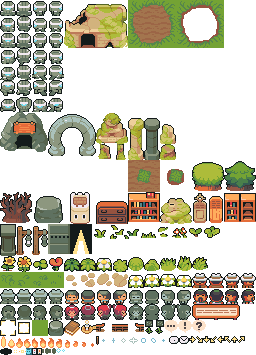
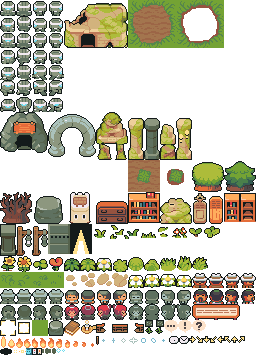
fix(play): outline the DSF island props, mark the footprint stone, report a failed atlas load
Claude-Session: https://claude.ai/code/session_01CCPYUMGwxb8dZjWuAeCoD5

diff --git a/app/play/dsf/world.ts b/app/play/dsf/world.ts
@@ -59,6 +59,7 @@ export type WorldEvents = {
   onToast(text: string): void; // only TOASTS.sea, at most once per 6 s
   onInteract?(near: NonNullable<Near>): void; // a tap on an object arrived next to it
   onReady?(): void; // atlas decoded and graded
+  onLoadError?(): void; // the atlas failed twice; the canvas says so too
   onScale?(cssPxPerArtPx: number): void; // k / devicePixelRatio, on every resize
 };
 
@@ -806,6 +807,24 @@ export function createWorld(canvas: HTMLCanvasElement, synth: Synth, events: Wor
     ctx.drawImage(tideCanvas, x, y);
   }
 
+  /** The island could not be loaded: say so plainly over the sea. */
+  function drawBroken(w: number, h: number) {
+    const lines = ["Could not load the island.", "Check your connection and reload."];
+    const size = Math.max(6, Math.min(10, Math.floor(w / 26)));
+    ctx.font = `bold ${size}px system-ui, sans-serif`;
+    ctx.textAlign = "center";
+    ctx.textBaseline = "middle";
+    const lineH = Math.round(size * 1.5);
+    const boxW = Math.min(w - 8, Math.ceil(Math.max(...lines.map((line) => ctx.measureText(line).width))) + size * 2);
+    const boxH = lineH * lines.length + size;
+    const bx = Math.round((w - boxW) / 2);
+    const by = Math.round((h - boxH) / 2);
+    ctx.fillStyle = "rgba(10, 16, 20, 0.85)";
+    ctx.fillRect(bx, by, boxW, boxH);
+    ctx.fillStyle = GOLD;
+    lines.forEach((line, index) => ctx.fillText(line, w / 2, by + size / 2 + lineH * (index + 0.5), w - 12));
+  }
+
   function draw() {
     if (disposed) return;
     placeCamera();
@@ -839,7 +858,7 @@ export function createWorld(canvas: HTMLCanvasElement, synth: Synth, events: Wor
       }
       drawTide();
       drawGlow();
-    }
+    } else if (broken) drawBroken(w, h);
     if (fadeIn >= 0) {
       // the opening: out of the dark in four flat steps
       ctx.globalAlpha = 1 - Math.floor(fadeIn / 225) / 4;
@@ -1182,6 +1201,8 @@ export function createWorld(canvas: HTMLCanvasElement, synth: Synth, events: Wor
     () => {
       // without the atlas there is still a sea, and the story must not wait for pictures that will not come
       broken = true;
+      events.onLoadError?.();
+      draw();
     },
   );
 

diff --git a/app/play/dsf/engine/assets.ts b/app/play/dsf/engine/assets.ts
@@ -9,29 +9,41 @@ export const ATLAS_URL = "/play/dsf/world/atlas.png";
 
 export type Sheets = Record<Grade, HTMLCanvasElement>;
 
+/** Loads the atlas, trying a second time after a short wait before giving up. */
 export function loadSheets(onReady: (sheets: Sheets) => void, onError: () => void): () => void {
   let cancelled = false;
-  const image = new Image();
-  image.decoding = "async";
-  image.onload = () => {
-    if (cancelled) return;
-    const [w, h] = ATLAS_SIZE;
-    onReady({
-      raw: gradeCanvas(image, w, h, "raw"),
-      night: gradeCanvas(image, w, h, "night"),
-      lit: gradeCanvas(image, w, h, "lit"),
-      dawn: gradeCanvas(image, w, h, "dawn"),
-      flash: gradeCanvas(image, w, h, "flash"),
-    });
+  let image: HTMLImageElement | null = null;
+  let timer = 0;
+  const attempt = (tries: number) => {
+    const next = new Image();
+    image = next;
+    next.decoding = "async";
+    next.onload = () => {
+      if (cancelled) return;
+      const [w, h] = ATLAS_SIZE;
+      onReady({
+        raw: gradeCanvas(next, w, h, "raw"),
+        night: gradeCanvas(next, w, h, "night"),
+        lit: gradeCanvas(next, w, h, "lit"),
+        dawn: gradeCanvas(next, w, h, "dawn"),
+        flash: gradeCanvas(next, w, h, "flash"),
+      });
+    };
+    next.onerror = () => {
+      if (cancelled) return;
+      if (tries > 0) onError();
+      else timer = window.setTimeout(() => attempt(1), 1200);
+    };
+    next.src = tries > 0 ? `${ATLAS_URL}?retry=${Date.now()}` : ATLAS_URL;
   };
-  image.onerror = () => {
-    if (!cancelled) onError();
-  };
-  image.src = ATLAS_URL;
+  attempt(0);
   return () => {
     cancelled = true;
-    image.onload = null;
-    image.onerror = null;
+    window.clearTimeout(timer);
+    if (image) {
+      image.onload = null;
+      image.onerror = null;
+    }
   };
 }
 

diff --git a/app/play/dsf/map.ts b/app/play/dsf/map.ts
@@ -212,7 +212,7 @@ export const THINGS: Thing[] = [
     bubble: [px(33) + 8, px(7) + 1],
     focus: [px(33) + 8, px(9)],
     lamp: [34, 9],
-    parts: [part("stone", 33, 7, 10)],
+    parts: [part("stoneMarked", 33, 7, 10)],
   },
   {
     id: "clock",
@@ -359,7 +359,7 @@ export const DECOR: Decor[] = [
   tall("frog", 8, 34, 2, 2),
   tall("seated", 7, 21, 2, 3),
   tall("pillarBroken", 23, 35, 1, 3),
-  tall("stone", 34, 27, 1, 3),
+  tall("pillarBroken", 34, 27, 1, 3),
   tall("rock", 34, 33, 2, 2),
   tall("rock", 11, 7, 2, 2),
   tall("rock", 16, 7, 2, 2),

diff --git a/app/play/dsf/engine/atlas.ts b/app/play/dsf/engine/atlas.ts
@@ -81,6 +81,7 @@ export const ATLAS = {
   doorOpen: [70, 224, 22, 30], // drawn for this game
   arrows: [189, 336, 56, 7], // drawn for this game
   bracket: [0, 320, 32, 16], // drawn for this game
+  stoneMarked: [176, 112, 16, 48], // stone (above) with a footprint carved in it
 } as const;
 
 export type SpriteName = keyof typeof ATLAS;

diff --git a/scripts/dsf/pack_world.py b/scripts/dsf/pack_world.py
@@ -403,6 +403,60 @@ for frame, inset in enumerate((1, 3)):
                     bracket.putpixel((frame * 16 + px, py), PALETTE_RGB["k"] + (255,))
 hand("bracket", bracket)
 
+# the Footprint Stones: the plain standing stone with a pale footprint carved in its face,
+# so the puzzle site cannot be taken for the decorative stone by the pond
+_stone = next(image for name, image, _ in entries if name == "stone")
+stone_marked = _stone.copy()
+PRINT = [".YY.", "YYYY", "YYYY", "YYYY", ".YY.", "....", ".YY.", ".YY."]
+for ox, oy in ((3, 22), (9, 18)):  # a left and a right foot, one a stride ahead
+    for gy, row in enumerate(PRINT):
+        for gx, key in enumerate(row):
+            if key != ".":
+                stone_marked.putpixel((ox + gx, oy + gy + 1), PALETTE_RGB["k"] + (255,))
+    for gy, row in enumerate(PRINT):
+        for gx, key in enumerate(row):
+            if key != ".":
+                stone_marked.putpixel((ox + gx, oy + gy), PALETTE_RGB["Y"] + (255,))
+add("stoneMarked", stone_marked, "stone (above) with a footprint carved in it")
+
+# ----------------------------------------------------------------------------- prop outline
+# Free-standing props get the 1px #141b1b outline the characters have, or at night the
+# mossy ruins read as ghosts on the grass. Only edges that are not already dark are outlined;
+# where a sprite runs to its own border the border pixel itself becomes outline.
+PROPS = {
+    "treeRound", "treeDark", "treeDead", "rock", "rockSmall", "slab", "board", "hall", "cave",
+    "stone", "stoneMarked", "tower", "arch", "pillar", "post", "lamp", "lampOff", "desk",
+    "bookcase", "seated", "pillarBroken", "frog", "fenceEnd", "fenceMid", "fenceEndR",
+}
+DARK = 70
+
+
+def outline(image):
+    src = image.load()
+    out = image.copy()
+    dst = out.load()
+    w, h = image.size
+
+    def solid(x, y):
+        return 0 <= x < w and 0 <= y < h and src[x, y][3] > 0
+
+    def light(x, y):
+        r, g, b, a = src[x, y]
+        return a > 0 and 0.3 * r + 0.59 * g + 0.11 * b > DARK
+
+    for y in range(h):
+        for x in range(w):
+            if solid(x, y):
+                if light(x, y) and (x in (0, w - 1) or y in (0, h - 1)):
+                    dst[x, y] = OUTLINE + (255,)
+                continue
+            if any(solid(nx, ny) and light(nx, ny) for nx, ny in ((x - 1, y), (x + 1, y), (x, y - 1), (x, y + 1))):
+                dst[x, y] = OUTLINE + (255,)
+    return out
+
+
+entries = [(name, outline(image) if name in PROPS else image, note) for name, image, note in entries]
+
 # ----------------------------------------------------------------------------- shelf packing
 order = sorted(range(len(entries)), key=lambda index: (-entries[index][1].height, -entries[index][1].width))
 rects = {}
